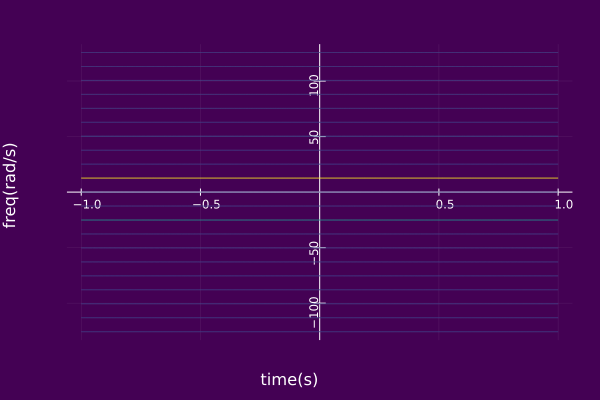
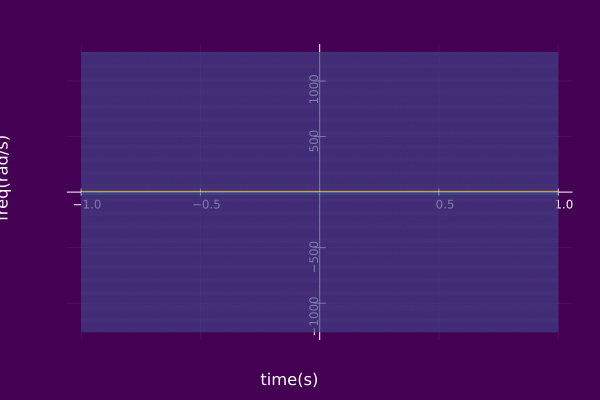
update Fourier example 3

diff --git a/docs/src/basicModels/Fourier.md b/docs/src/basicModels/Fourier.md
@@ -166,25 +166,28 @@ For a this choice of parameters of the component set, we have the following Arga
 
 ```julia
 using ISA, Plots
-T = 0.5
-aₖ(k) = ifelse( k==0, 0, (1-exp(-im*k*2π/3)-exp(im*2π/3)*
-exp(-im*k*4π/3)+exp(im*2π/3)*exp(-im*k*2π/3)-exp(im*4π/3)*
-exp(-im*k*2π)+exp(im*4π/3)*exp(-im*k*4π/3))/(im*k*2π) )
+T = 0.75
+j=im
+aₖ(k) = ifelse( k==0, 0, (1-exp(-j*k*2π/3)-exp(j*2π/3)*
+exp(-j*k*4π/3)+exp(j*2π/3)*exp(-j*k*2π/3)-exp(j*4π/3)*
+exp(-j*k*2π)+exp(j*4π/3)*exp(-j*k*4π/3))/(j*k*2π) )
 
-kInds = -10:10
+kInds = -150:150
 𝑆 = fourierSeries(T, aₖ, kInds)
 z = AMFMmodel(𝑆)
-plot(z; timeaxis=-1.0:0.001:1.0, ylims=(-1.0,1.0))
+plot(z; timeaxis=-1.0:0.001:1.0, ylims=(1.0,1.0),camera=(60,15))
 ```
 ![](https://raw.githubusercontent.com/NMSU-ISA/ISA/master/docs/src/assets/IS_exFourier7.png)
 
 ```julia
 using ISA, Plots
-T = 0.5
-aₖ(k) = ifelse( k==0, 0, (1-exp(-im*k*2π/3)-exp(im*2π/3)*
-exp(-im*k*4π/3)+exp(im*2π/3)*exp(-im*k*2π/3)-exp(im*4π/3)*
-exp(-im*k*2π)+exp(im*4π/3)*exp(-im*k*4π/3))/(im*k*2π) )
-kInds = -10:10
+T = 0.75
+j=im
+aₖ(k) = ifelse( k==0, 0, (1-exp(-j*k*2π/3)-exp(j*2π/3)*
+exp(-j*k*4π/3)+exp(j*2π/3)*exp(-j*k*2π/3)-exp(j*4π/3)*
+exp(-j*k*2π)+exp(j*4π/3)*exp(-j*k*4π/3))/(j*k*2π) )
+
+kInds = -150:150
 𝑆 = fourierSeries(T, aₖ, kInds)
 z = AMFMmodel(𝑆)
 plot(𝑆; timeaxis=-1.0:0.001:1.0)
@@ -193,11 +196,13 @@ plot(𝑆; timeaxis=-1.0:0.001:1.0)
 
 ```julia
 using ISA, Plots
-T = 0.5
-aₖ(k) = ifelse( k==0, 0, (1-exp(-im*k*2π/3)-exp(im*2π/3)*
-exp(-im*k*4π/3)+exp(im*2π/3)*exp(-im*k*2π/3)-exp(im*4π/3)*
-exp(-im*k*2π)+exp(im*4π/3)*exp(-im*k*4π/3))/(im*k*2π) )
-kInds = -10:10
+T = 0.75
+j=im
+aₖ(k) = ifelse( k==0, 0, (1-exp(-j*k*2π/3)-exp(j*2π/3)*
+exp(-j*k*4π/3)+exp(j*2π/3)*exp(-j*k*2π/3)-exp(j*4π/3)*
+exp(-j*k*2π)+exp(j*4π/3)*exp(-j*k*4π/3))/(j*k*2π) )
+
+kInds = -150:150
 𝑆 = fourierSeries(T, aₖ, kInds)
 z = AMFMmodel(𝑆)
 plot(𝑆; timeaxis=-1.0:0.001:1.0)
